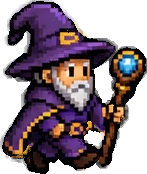
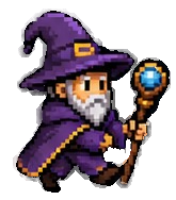
Corregido problema de control de teclas y optimizada animación de caminata a 4 pasos

diff --git a/actividad.html b/actividad.html
@@ -817,6 +817,10 @@ window.addEventListener('keyup', e => {
     if(['d','ArrowRight'].includes(e.key)) keys.d = 0;
     if(['e','Enter',' '].includes(e.key)) keys.action = 0;
 });
+window.addEventListener('blur', () => { 
+    for(let k in keys) keys[k] = 0; 
+    for(let k in touches) touches[k] = 0;
+});
 
 function bindBtn(id, key) {
     const el = document.getElementById(id);
@@ -875,8 +879,11 @@ const player = {
         if(wizardPruebaLoaded) {
             let img = wizardPrueba;
             if(this.moving && wizardWalkLoaded >= 2) {
-                // Ciclo de caminata entre los dos frames nuevos
-                img = (Math.floor(this.animTimer) % 2 === 0) ? wizardWalk1 : wizardWalk2;
+                // Ciclo de 4 pasos para naturalidad: 0:Frente, 1:Walk1, 2:Frente, 3:Walk2
+                const step = Math.floor(this.animTimer / 1.5) % 4;
+                if(step === 1) img = wizardWalk1;
+                else if(step === 3) img = wizardWalk2;
+                else img = wizardPrueba;
             }
             
             const dw = 48, dh = 58;
